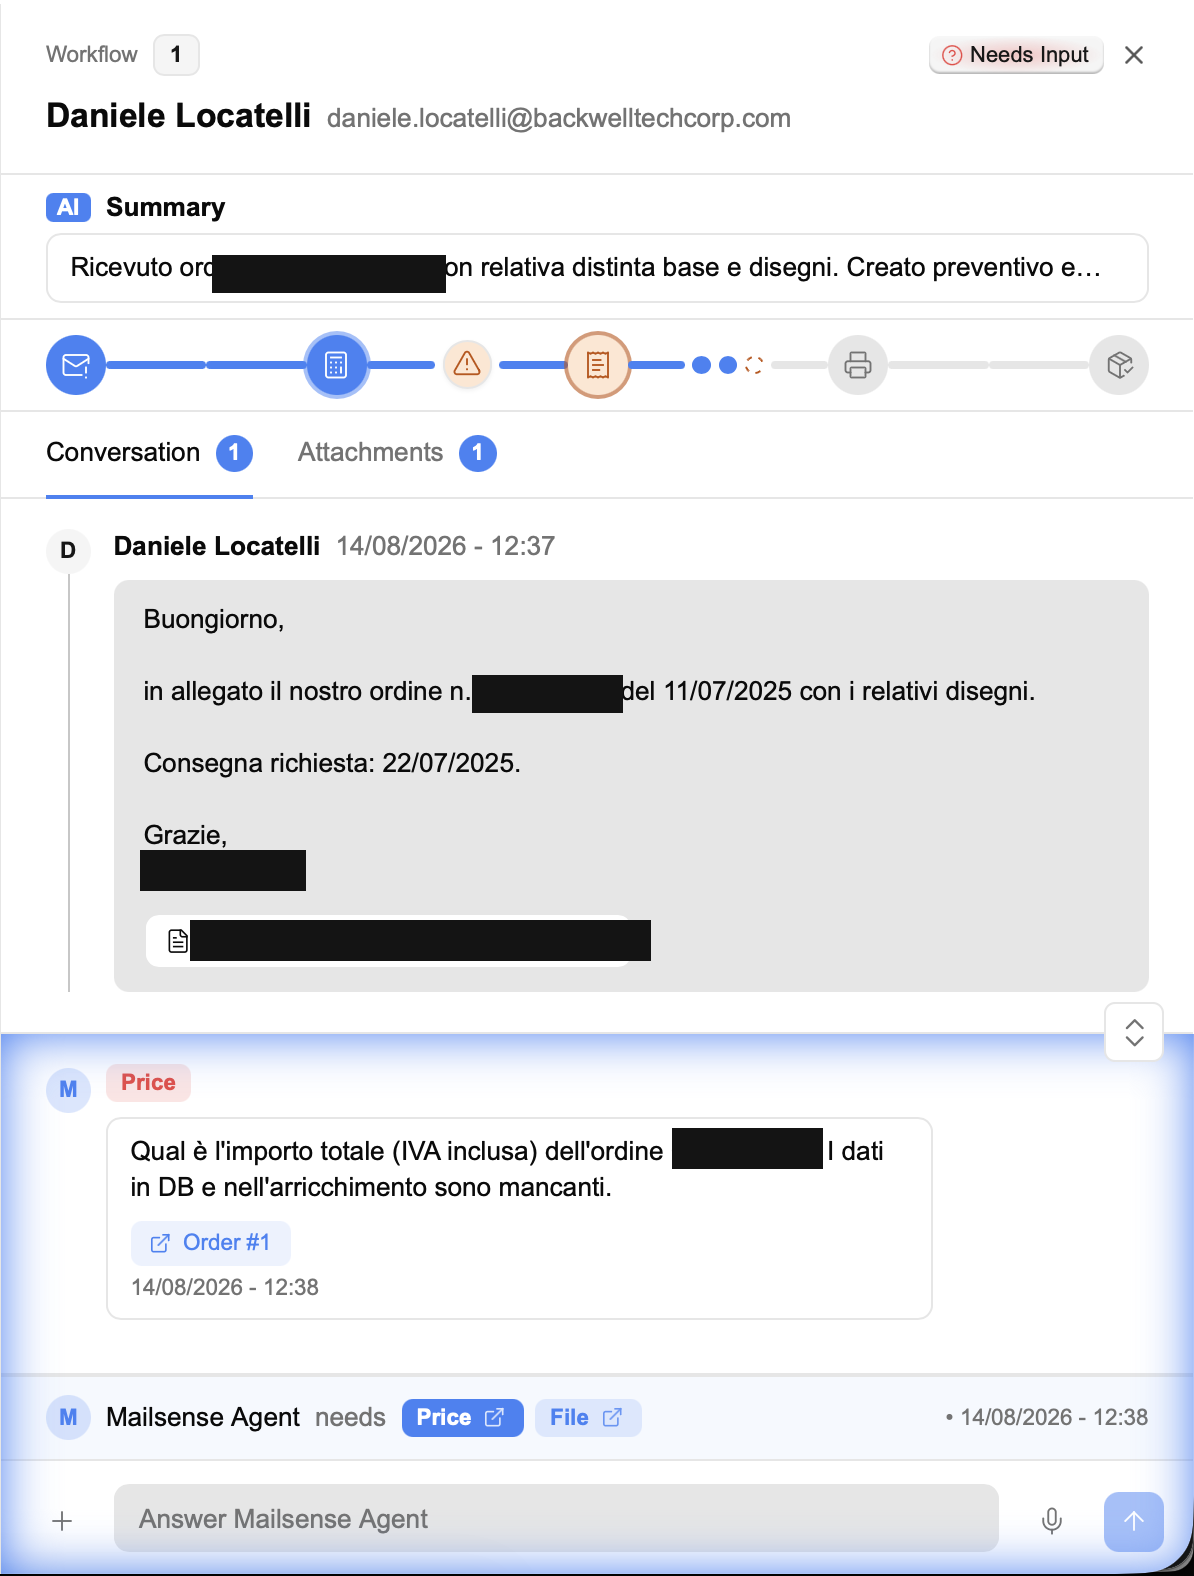
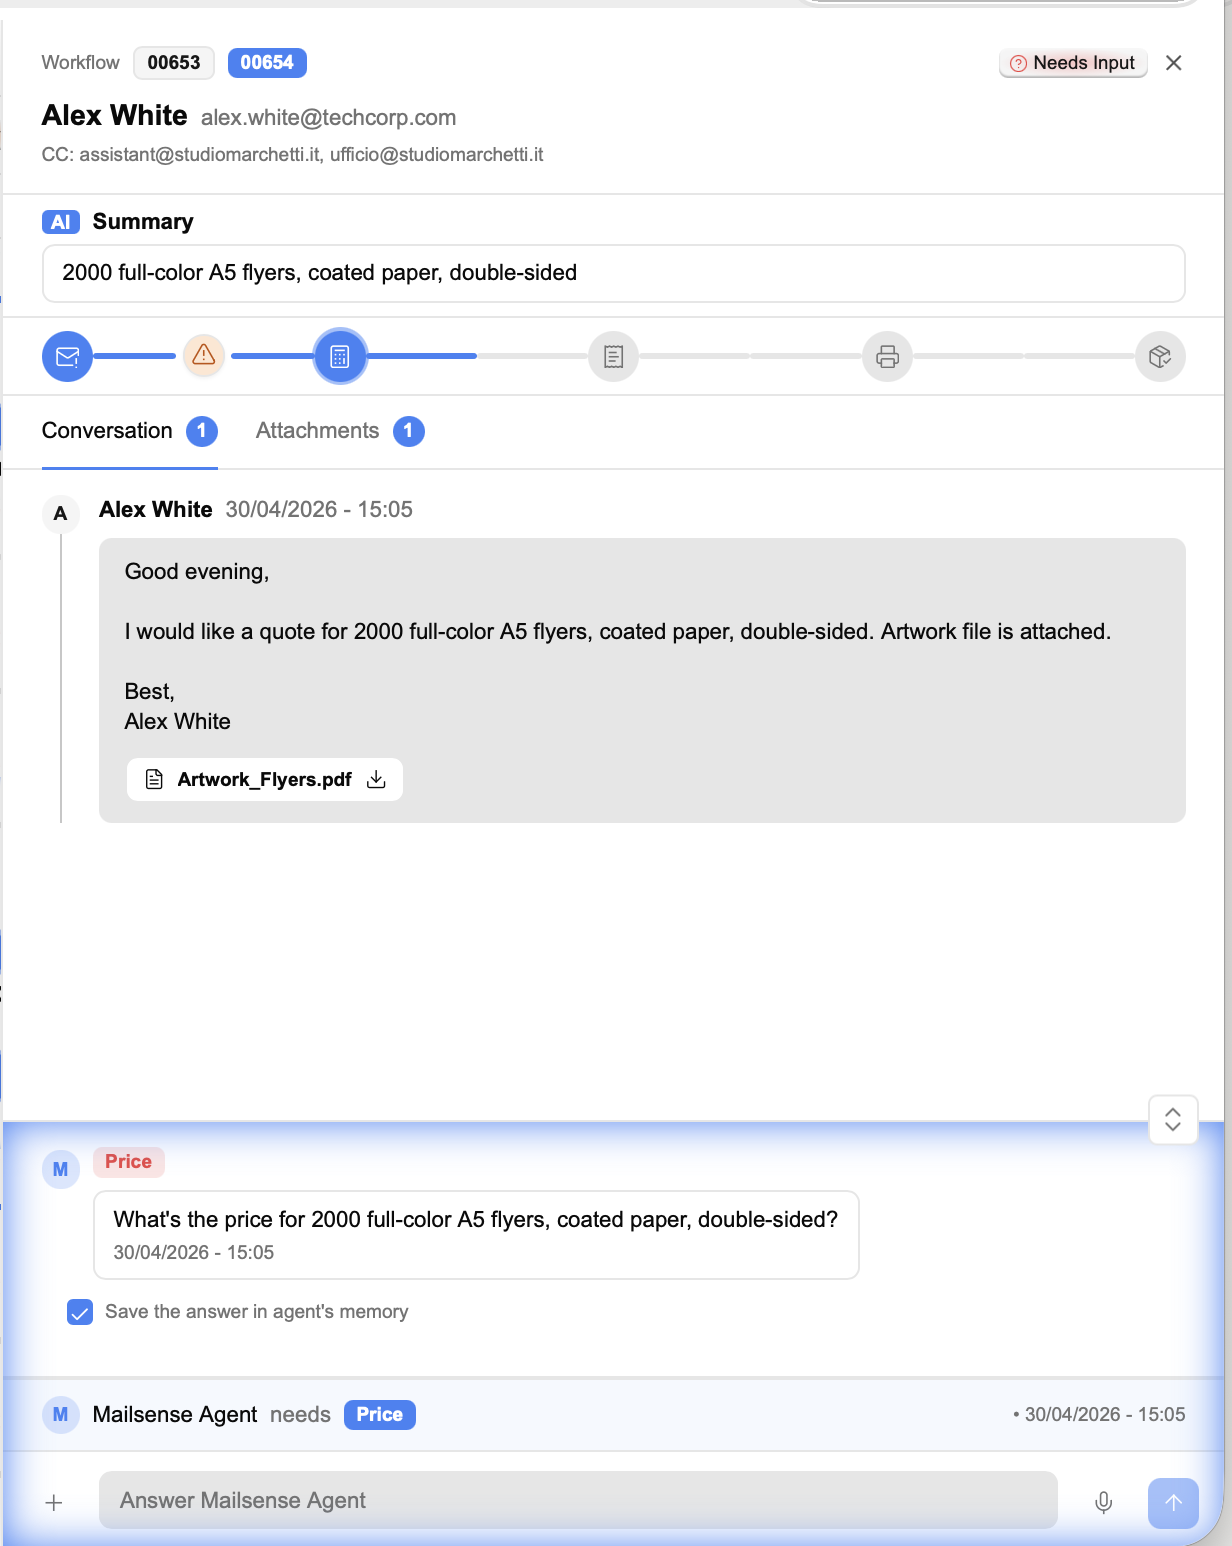
Replace MailSense screenshots with ones captured against mock data
Avoids needing to redact real client data, unlike the originals.

Changed region(s): [[0.0, 0.0, 1.0, 1.0], [0.6508, 0.0, 0.9606, 0.0621]]

diff --git a/src/content/projects/mailsense.md b/src/content/projects/mailsense.md
@@ -9,7 +9,7 @@ images:
   - src: ./mailsense-architecture.svg
     alt: Diagram of the MailSense email pipeline, showing the email processor reading and sending mail via Outlook, Gmail, or generic IMAP/SMTP, storing data in per-tenant storage, and pushing each tenant's context to a single shared AI agent that classifies email and drafts replies using that pushed context instead of its own database.
   - src: ./mailsense-workflow-list.png
-    alt: The MailSense workflow list, showing three orders moving through Request, Quote, Order, Production, and Ready stages, with one flagged as needing input.
+    alt: The MailSense workflow list, showing several orders at different stages of the Request, Quote, Order, Production, and Ready pipeline, filterable by status.
   - src: ./mailsense-ai-conversation.png
     alt: An operator-in-the-loop conversation where the AI agent asks a clarifying question about a missing price before it can proceed with an order.
 ---
